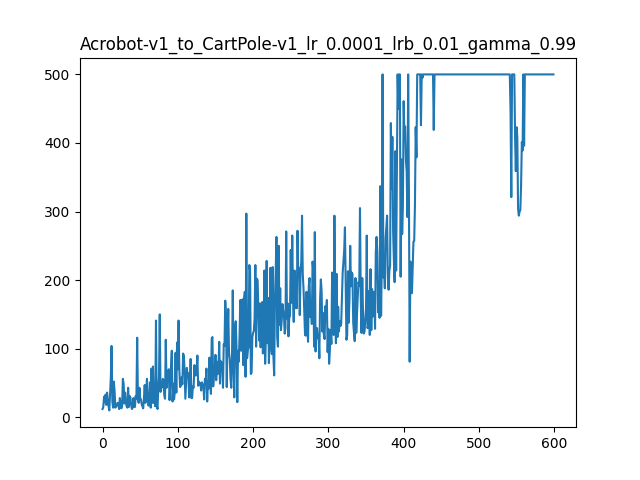
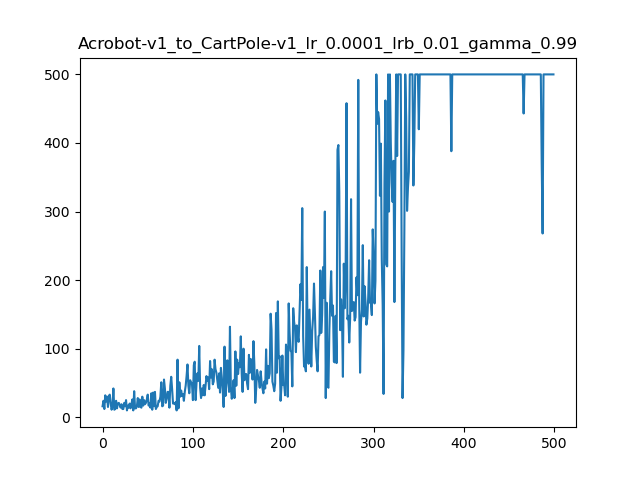
Added time calculation

diff --git a/Assignment_3/Q1.py b/Assignment_3/Q1.py
@@ -6,6 +6,7 @@ import torch.optim as optim
 import matplotlib.pyplot as plt
 from pathlib import Path
 import pandas as pd
+import time
 
 # Check for CUDA availability
 device = torch.device("cuda" if torch.cuda.is_available() else "cpu")
@@ -14,7 +15,6 @@ print(f"Using device: {device}")
 SOLVE_THRESHOLDS = {
     "CartPole-v1": 475,
     "Acrobot-v1": -100,
-    "MountainCar-v0": -110,
 }
 
 
@@ -84,8 +84,10 @@ class ActorCriticAgent:
         print(f"Starting {self.env_name} training...")
 
         self.training_log = []   # store progress logs
+        self.episode_times = []   # track time for each episode
 
         for episode in range(self.episodes):
+            episode_start_time = time.time()
 
             state, _ = self.env.reset()
             if self.env_name == 'CartPole-v1':
@@ -153,13 +155,16 @@ class ActorCriticAgent:
 
                 state = next_state
 
-            # Store reward for this episode
+            # Record episode time and reward
+            episode_time = time.time() - episode_start_time
+            self.episode_times.append(episode_time)
             self.episode_rewards.append(total_reward)
 
             # -------- LOGGING (unchanged) --------
             if (episode + 1) % 100 == 0:
                 avg_reward = np.mean(self.episode_rewards[-100:])
-                print(f"Episode {episode+1}/{self.episodes} | Last 100 Avg Reward: {avg_reward:.2f}")
+                total_time_100 = np.sum(self.episode_times[-100:])
+                print(f"Episode {episode+1}/{self.episodes} | Last 100 Avg Reward: {avg_reward:.2f} | Time for 100 Episodes: {total_time_100:.2f}s")
 
                 threshold = SOLVE_THRESHOLDS[self.env_name]
                 solved = avg_reward >= threshold
@@ -167,6 +172,7 @@ class ActorCriticAgent:
                 self.training_log.append({
                     "episode": episode + 1,
                     "avg_reward_last100": float(avg_reward),
+                    "time_last100_episodes": float(total_time_100),
                     "solved": solved,
                     "solve_threshold": threshold
                 })
@@ -209,12 +215,12 @@ class ActorCriticAgent:
 
 if __name__ == "__main__":
     # Hyperparameters
-    learn_rate_b =  [0.1, 0.01, 0.001]
-    learn_rate = [0.05, 0.001, 0.0001,0.000001]
-    gamma = [1, 0.95,0.9]
+    learn_rate_b =  [0.001]
+    learn_rate = [0.001]
+    gamma = [0.99]
     episodes = 700
     early_stop = True
-    env_names = ['MountainCar-v0']#['Acrobot-v1', 'MountainCar-v0']
+    env_names = ['Acrobot-v1']#['Acrobot-v1', 'MountainCarContinuous-v0']
     grid_acrobot_results = []
     grid_mountaincar_results = []
     
@@ -273,7 +279,6 @@ if __name__ == "__main__":
 
     grids = {
         "Acrobot-v1": grid_acrobot_results,
-        "MountainCar-v0": grid_mountaincar_results
     }
 
     for env_name, grid_results in grids.items():

diff --git a/Assignment_3/Q1_MountainCarContinuous-v0.py b/Assignment_3/Q1_MountainCarContinuous-v0.py
@@ -6,6 +6,7 @@ import torch.optim as optim
 import matplotlib.pyplot as plt
 from pathlib import Path
 import pandas as pd
+import time
 
 # Check for CUDA availability
 device = torch.device("cuda" if torch.cuda.is_available() else "cpu")
@@ -86,8 +87,10 @@ class ActorCriticAgent:
         print(f"Starting {self.env_name} training...")
 
         self.training_log = []   # store progress logs
+        self.episode_times = []   # track time for each episode
 
         for episode in range(self.episodes):
+            episode_start_time = time.time()
 
             state, _ = self.env.reset()
             if self.env_name == 'CartPole-v1':
@@ -170,13 +173,16 @@ class ActorCriticAgent:
 
                 state = next_state
 
-            # Store reward for this episode
+            # Record episode time and reward
+            episode_time = time.time() - episode_start_time
+            self.episode_times.append(episode_time)
             self.episode_rewards.append(total_reward)
 
             # -------- LOGGING (unchanged) --------
             if (episode + 1) % 100 == 0:
                 avg_reward = np.mean(self.episode_rewards[-100:])
-                print(f"Episode {episode+1}/{self.episodes} | Last 100 Avg Reward: {avg_reward:.2f}")
+                total_time_100 = np.sum(self.episode_times[-100:])
+                print(f"Episode {episode+1}/{self.episodes} | Last 100 Avg Reward: {avg_reward:.2f} | Time for 100 Episodes: {total_time_100:.2f}s")
 
                 threshold = SOLVE_THRESHOLDS[self.env_name]
                 solved = avg_reward >= threshold
@@ -184,6 +190,7 @@ class ActorCriticAgent:
                 self.training_log.append({
                     "episode": episode + 1,
                     "avg_reward_last100": float(avg_reward),
+                    "time_last100_episodes": float(total_time_100),
                     "solved": solved,
                     "solve_threshold": threshold,
                     'episode_rewards': self.episode_rewards
@@ -228,9 +235,9 @@ class ActorCriticAgent:
 
 if __name__ == "__main__":
     # Hyperparameters
-    learn_rate_b =  [0.01,0.0001]
-    learn_rate = [0.001,0.0001]
-    gamma = [1,0.99,0.999]
+    learn_rate_b =  [0.01]
+    learn_rate = [0.001]
+    gamma = [1]
     episodes = 1000
     early_stop = True
     env_names = ['MountainCarContinuous-v0']#['Acrobot-v1', 'MountainCar-v0']

diff --git a/Assignment_2/Q2.py b/Assignment_2/Q2.py
@@ -7,6 +7,7 @@ import matplotlib.pyplot as plt
 from pathlib import Path
 import pandas as pd
 import os
+import time
 from Q1 import ReinforceAgent
 
 # Check for CUDA availability
@@ -70,8 +71,10 @@ class ActorCriticAgent:
         print("Starting Actor–Critic training...")
 
         self.training_log = []   # store progress logs
+        self.episode_times = []   # track time for each episode
 
         for episode in range(self.episodes):
+            episode_start_time = time.time()
 
             state, _ = self.env.reset()
             done = False
@@ -128,17 +131,21 @@ class ActorCriticAgent:
 
                 state = next_state
 
-            # Store reward for this episode
+            # Record episode time and reward
+            episode_time = time.time() - episode_start_time
+            self.episode_times.append(episode_time)
             self.episode_rewards.append(total_reward)
 
             # -------- LOGGING (unchanged) --------
             if (episode + 1) % 100 == 0:
                 avg_reward = np.mean(self.episode_rewards[-100:])
-                print(f"Episode {episode+1}/{self.episodes} | Last 100 Avg Reward: {avg_reward:.2f}")
+                total_time_100 = np.sum(self.episode_times[-100:])
+                print(f"Episode {episode+1}/{self.episodes} | Last 100 Avg Reward: {avg_reward:.2f} | Time for 100 Episodes: {total_time_100:.2f}s")
 
                 self.training_log.append({
                     "episode": episode + 1,
                     "avg_reward_last100": float(avg_reward),
+                    "time_last100_episodes": float(total_time_100),
                     "solved (>=475)": avg_reward >= 475
                 })
 
@@ -193,9 +200,9 @@ def evaluate_agent(env, agent, eval_episodes=10):
 
 if __name__ == "__main__":
     # Hyperparameters
-    learn_rate_b = [0.01, 0.001, 0.0001]
-    learn_rate = [0.01, 0.001, 0.0001]
-    gamma = [0.99, 0.95]
+    learn_rate_b = [0.001]#[0.01, 0.001, 0.0001]
+    learn_rate = [0.0001]#[0.01, 0.001, 0.0001]
+    gamma = [0.99]#[0.99, 0.95]
     episodes = 1500
     early_stop = True
     

diff --git a/Assignment_3/Q2.py b/Assignment_3/Q2.py
@@ -23,9 +23,9 @@ SOLVE_THRESHOLDS = {
 # We assume the "Universal" model input size is 6 (size of Acrobot)
 MAX_STATE_DIM = 6 
 
-learn_rate_b = [0.01, 0.001]      # Critic LR multiplier
-learn_rate = [0.01, 0.001, 0.0001]    # Actor LR
-gamma_grid  = [1,0.99, 0.95]
+learn_rate_b =[0.01] #[0.01, 0.001]      # Critic LR multiplier
+learn_rate = [0.0001] #[0.01, 0.001, 0.0001]    # Actor LR
+gamma_grid  = [1]#[1,0.99, 0.95]
 episodes = 1000
 early_stop = True     # Already built into your training
 
@@ -155,8 +155,11 @@ class FineTunedAgent:
         print(f"Starting Fine-Tuning on {self.env_name}...")
         
         solved_episode = -1
+        self.episode_times = []   # track time for each episode
 
         for episode in range(self.episodes):
+            episode_start_time = time.time()
+            
             state, _ = self.env.reset()
             state = self.preprocess_state(state) # PAD STATE
             
@@ -213,12 +216,16 @@ class FineTunedAgent:
                 I *= self.gamma
                 state = next_state
 
+            # Record episode time and reward
+            episode_time = time.time() - episode_start_time
+            self.episode_times.append(episode_time)
             self.episode_rewards.append(total_reward)
 
             # Logging & Solved Check
             if (episode + 1) % 100 == 0:
                 avg_reward = np.mean(self.episode_rewards[-100:])
-                print(f"Episode {episode+1} | Avg Reward: {avg_reward:.2f}")
+                total_time_100 = np.sum(self.episode_times[-100:])
+                print(f"Episode {episode+1} | Avg Reward: {avg_reward:.2f} | Time for 100 Episodes: {total_time_100:.2f}s")
                 
                 if avg_reward >= SOLVE_THRESHOLDS[self.env_name]:
                     print(f"--- {self.env_name} SOLVED in {episode+1} episodes! ---")

diff --git a/Assignment_3/Q3.py b/Assignment_3/Q3.py
@@ -180,8 +180,11 @@ class ProgressiveAgent:
         print(f"Starting Progressive Training on {self.env_name}...")
         
         solved_episode = -1
+        self.episode_times = []   # track time for each episode
 
         for episode in range(self.episodes):
+            episode_start_time = time.time()
+            
             state, _ = self.env.reset()
             state = self.preprocess_state(state) 
             
@@ -233,11 +236,15 @@ class ProgressiveAgent:
                 I *= self.gamma
                 state = next_state
 
+            # Record episode time and reward
+            episode_time = time.time() - episode_start_time
+            self.episode_times.append(episode_time)
             self.episode_rewards.append(total_reward)
 
             if (episode + 1) % 100 == 0:
                 avg_reward = np.mean(self.episode_rewards[-100:])
-                print(f"Episode {episode+1} | Avg Reward: {avg_reward:.2f}")
+                total_time_100 = np.sum(self.episode_times[-100:])
+                print(f"Episode {episode+1} | Avg Reward: {avg_reward:.2f} | Time for 100 Episodes: {total_time_100:.2f}s")
                 
                 if avg_reward >= SOLVE_THRESHOLDS[self.env_name]:
                     print(f"--- {self.env_name} SOLVED in {episode+1} episodes! ---")
